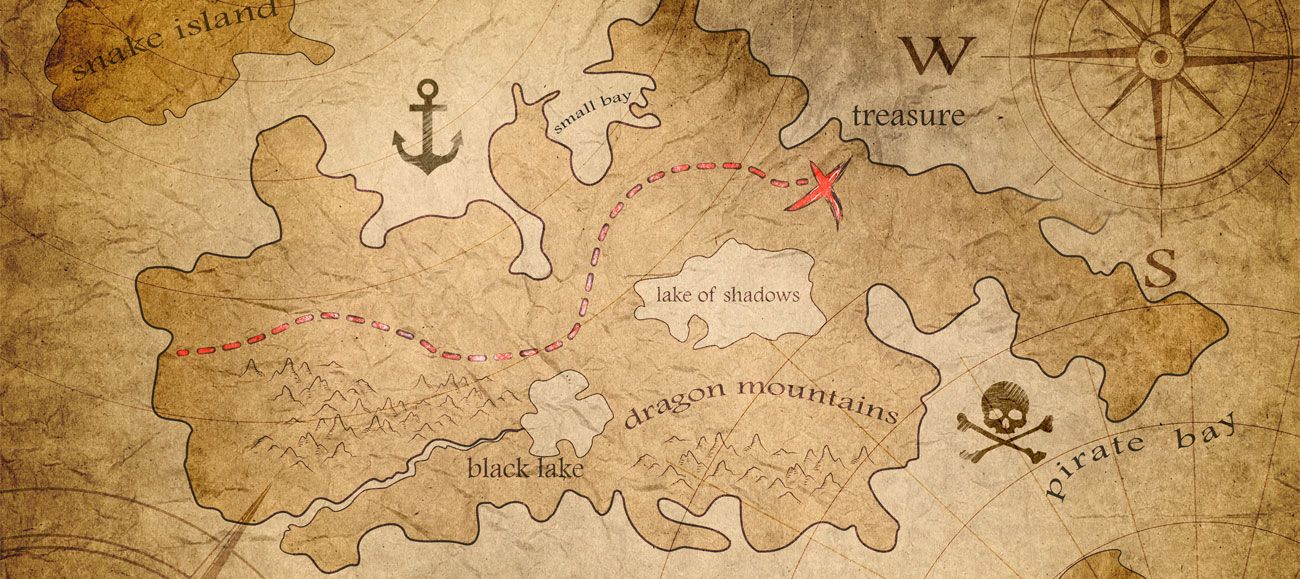
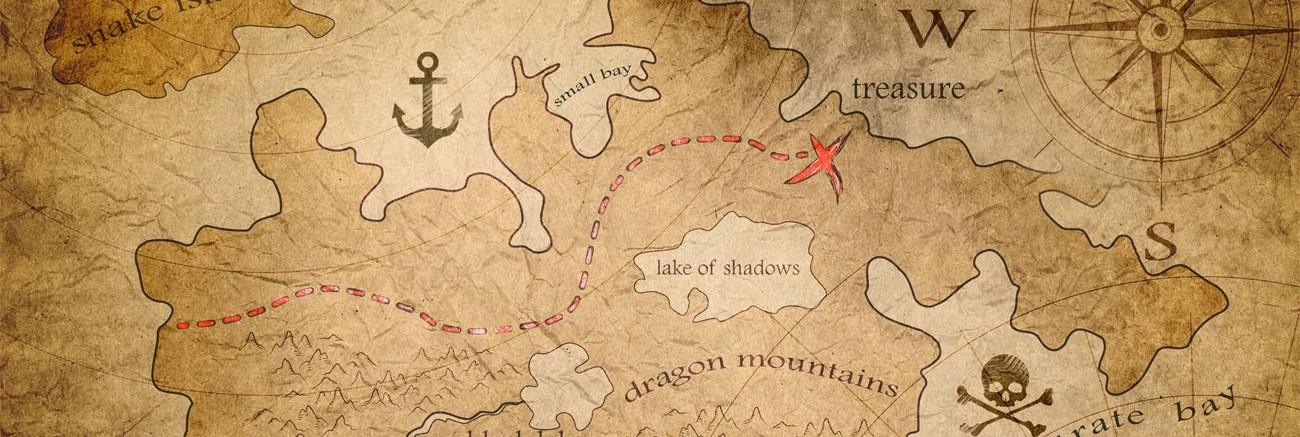
cambiando material angular por bootstrap y terminando primera interfaz

diff --git a/src/index.html b/src/index.html
@@ -7,10 +7,13 @@
 
   <meta name="viewport" content="width=device-width, initial-scale=1">
   <link href="https://fonts.googleapis.com/css?family=Pirata+One&display=swap" rel="stylesheet">
-  <link href="https://fonts.googleapis.com/icon?family=Material+Icons" rel="stylesheet">
+  <link rel="stylesheet" href="https://stackpath.bootstrapcdn.com/bootstrap/4.4.1/css/bootstrap.min.css" integrity="sha384-Vkoo8x4CGsO3+Hhxv8T/Q5PaXtkKtu6ug5TOeNV6gBiFeWPGFN9MuhOf23Q9Ifjh" crossorigin="anonymous">
   <link rel="icon" type="image/x-icon" href="favicon.ico">
 </head>
 <body>
   <app-root></app-root>
+  <script src="https://code.jquery.com/jquery-3.4.1.slim.min.js" integrity="sha384-J6qa4849blE2+poT4WnyKhv5vZF5SrPo0iEjwBvKU7imGFAV0wwj1yYfoRSJoZ+n" crossorigin="anonymous"></script>
+<script src="https://cdn.jsdelivr.net/npm/popper.js@1.16.0/dist/umd/popper.min.js" integrity="sha384-Q6E9RHvbIyZFJoft+2mJbHaEWldlvI9IOYy5n3zV9zzTtmI3UksdQRVvoxMfooAo" crossorigin="anonymous"></script>
+<script src="https://stackpath.bootstrapcdn.com/bootstrap/4.4.1/js/bootstrap.min.js" integrity="sha384-wfSDF2E50Y2D1uUdj0O3uMBJnjuUD4Ih7YwaYd1iqfktj0Uod8GCExl3Og8ifwB6" crossorigin="anonymous"></script>
 </body>
 </html>

diff --git a/src/app/app.module.ts b/src/app/app.module.ts
@@ -1,5 +1,4 @@
 import { BrowserModule } from '@angular/platform-browser';
-import { BrowserAnimationsModule } from '@angular/platform-browser/animations';
 import { NgModule } from '@angular/core';
 
 import { AngularFireModule } from '@angular/fire';
@@ -15,10 +14,6 @@ import { HomeComponent } from './components/home/home.component';
 import { PageNotFoundComponent } from './components/page-not-found/page-not-found.component';
 import { UserService } from './services/user.service';
 
-//Angular Material
-import { MatButtonModule } from '@angular/material/button';
-import { MatCardModule } from '@angular/material/card';
-
 
 @NgModule({
   declarations: [
@@ -28,9 +23,6 @@ import { MatCardModule } from '@angular/material/card';
   ],
   imports: [
     BrowserModule,
-    BrowserAnimationsModule,
-    MatButtonModule,
-    MatCardModule,
     AngularFireModule.initializeApp(environment.firebase),
     AngularFireAuthModule,
     AngularFirestoreModule,

diff --git a/src/app/components/home/home.component.html b/src/app/components/home/home.component.html
@@ -1,20 +1,8 @@
-<html>
-        <body>
-                        <img src="assets/img/mapa.jpg" class="img-fluid" alt="Responsive image">
-      <mat-card-title>Isla del Tesoro</mat-card-title>
-<div class="example-button-row">
-                <button mat-raised-button color="accent">Start</button>
-        </div>
-</body>
-</html>
+<img src="assets/img/mapa.jpg" class="img-fluid" alt="Responsive image">
 
-<!-- <div *ngIf = "rooms">
-<div *ngFor = "let r of rooms">
-        <h1>ROOM</h1>
-        <button type="button" (click)="joinRoom(r)">JOIN</button>
-        <button type="button" (click)="deleteRoom(r)">CLOSE</button>
-        <div *ngIf = "r.warning">
-                <p> {{r.warning}} </p>
-        </div>
-</div> -->
-<!-- </div> -->
+<h5 class="card-title">Busqueda del Tesoro</h5>
+
+<button type="button" class="btn btn-warning">Start</button>
+
+
+

diff --git a/src/styles.css b/src/styles.css
@@ -1,9 +1,8 @@
 /* You can add global styles to this file, and also import other style files */
-@import "../node_modules/@angular/material/prebuilt-themes/deeppurple-amber.css";
 
 body{
     margin: 0px;
-    background-image: linear-gradient(to bottom, #755020, #755020, #755020, #755020, #755020, #805d30, #8c6a3f, #97774f, #b19674, #cab69b, #cab69b, #cab69b);    
+    background-image: linear-gradient(to bottom, #664216, #664216, #664216, #664216, #664216, #724d21, #7d582d, #896438, #a47f53, #bf9a6e, #dab78b, #f6d4a9);
     background-attachment: fixed;  
     text-align: center; 
 

diff --git a/src/app/components/home/home.component.css b/src/app/components/home/home.component.css
@@ -1,15 +1,23 @@
-.img-fluid{
-    width: 1300px;
-    height: 380px;
+.img-fluid {
+  width: 100%;
+  height: auto;
 }
 
-.mat-card-title{
+.btn-warning, .card-title{
     font-family: 'Pirata One', cursive;
-    font-size: 50px;
+    margin-top: 2rem;
 }
 
-.mat-raised-button{
-    margin-top: 3rem;
-    font-family: 'Pirata One', cursive;
-    font-size: 30px;
+.btn-warning{
+  margin-bottom: 20px;
+  font-size: 25px;
+  color: rgb(56, 35, 19);
+
 }
+
+.card-title{
+  font-size: 50px;
+  color: rgb(56, 35, 19);
+}
+
+

diff --git a/src/main.ts b/src/main.ts
@@ -4,8 +4,6 @@ import { platformBrowserDynamic } from '@angular/platform-browser-dynamic';
 import { AppModule } from './app/app.module';
 import { environment } from './environments/environment';
 
-import 'hammerjs';
-
 if (environment.production) {
   enableProdMode();
 }
